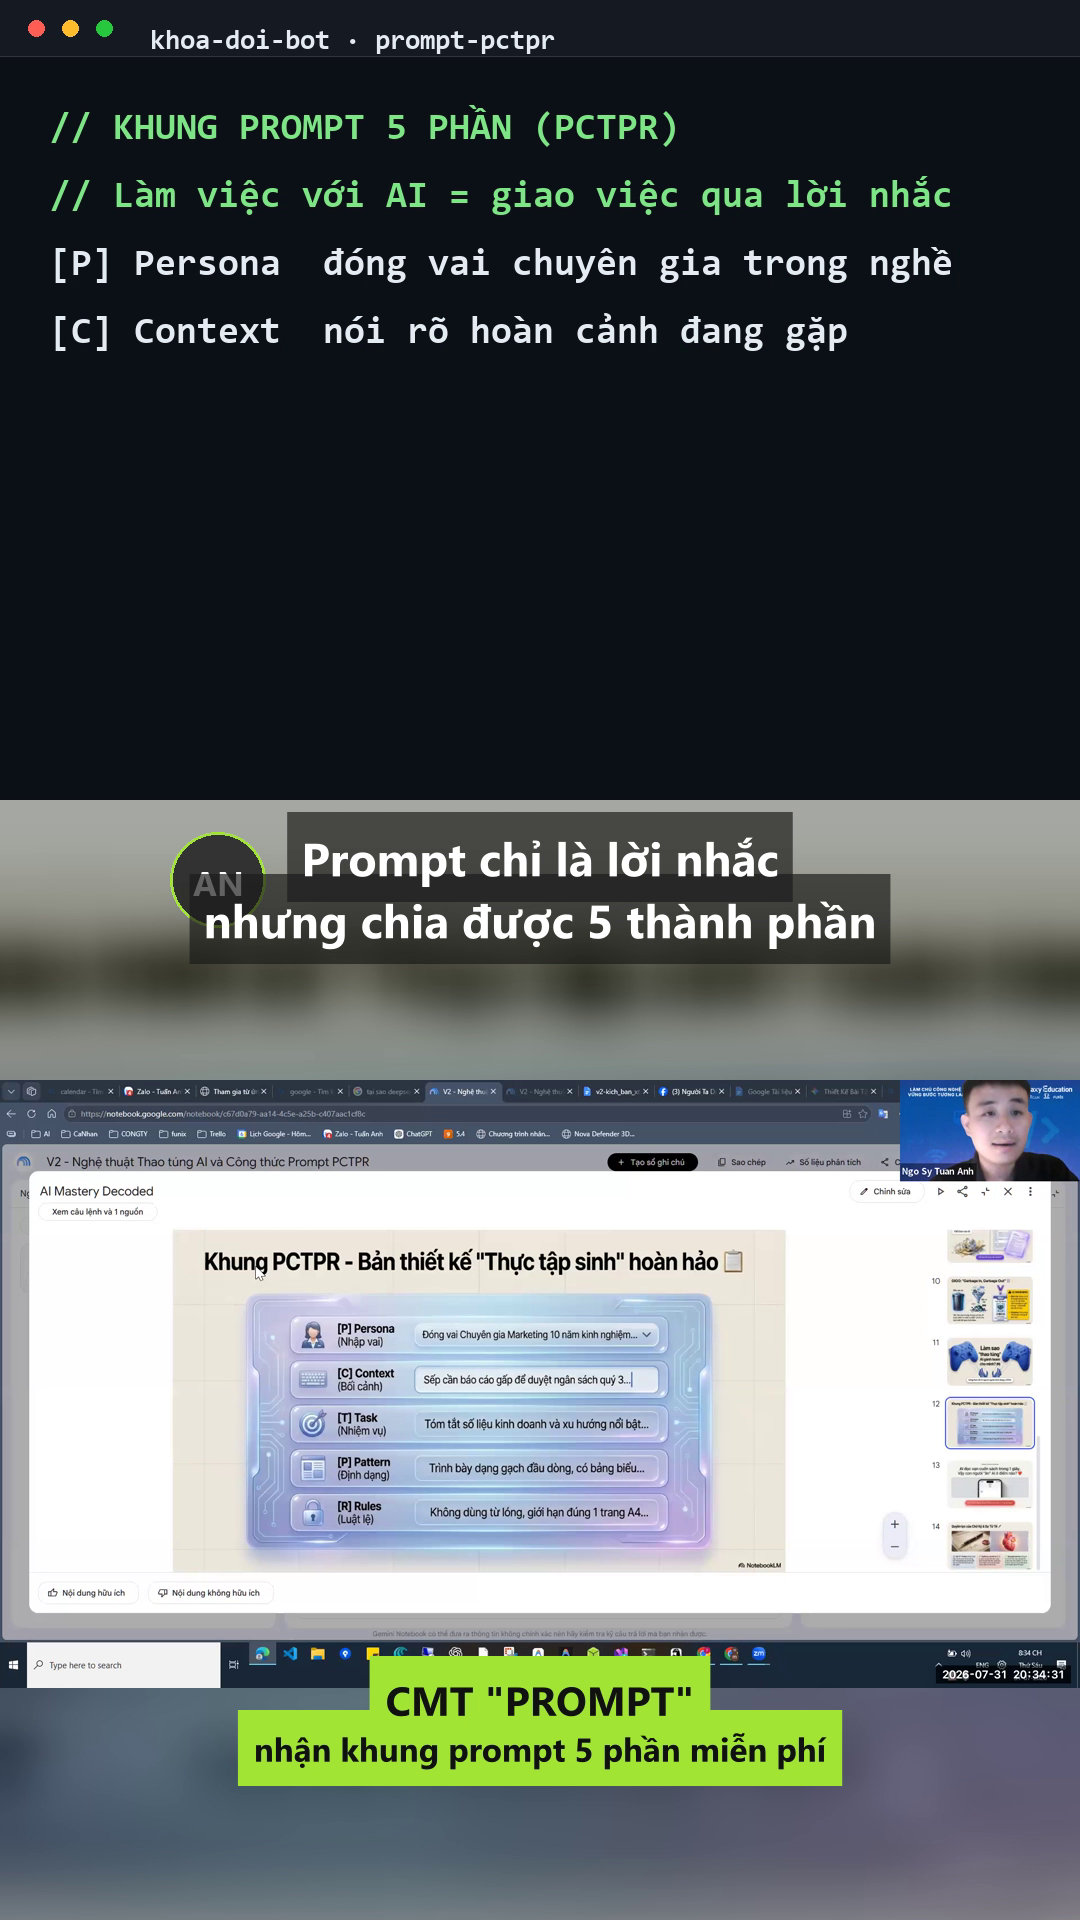
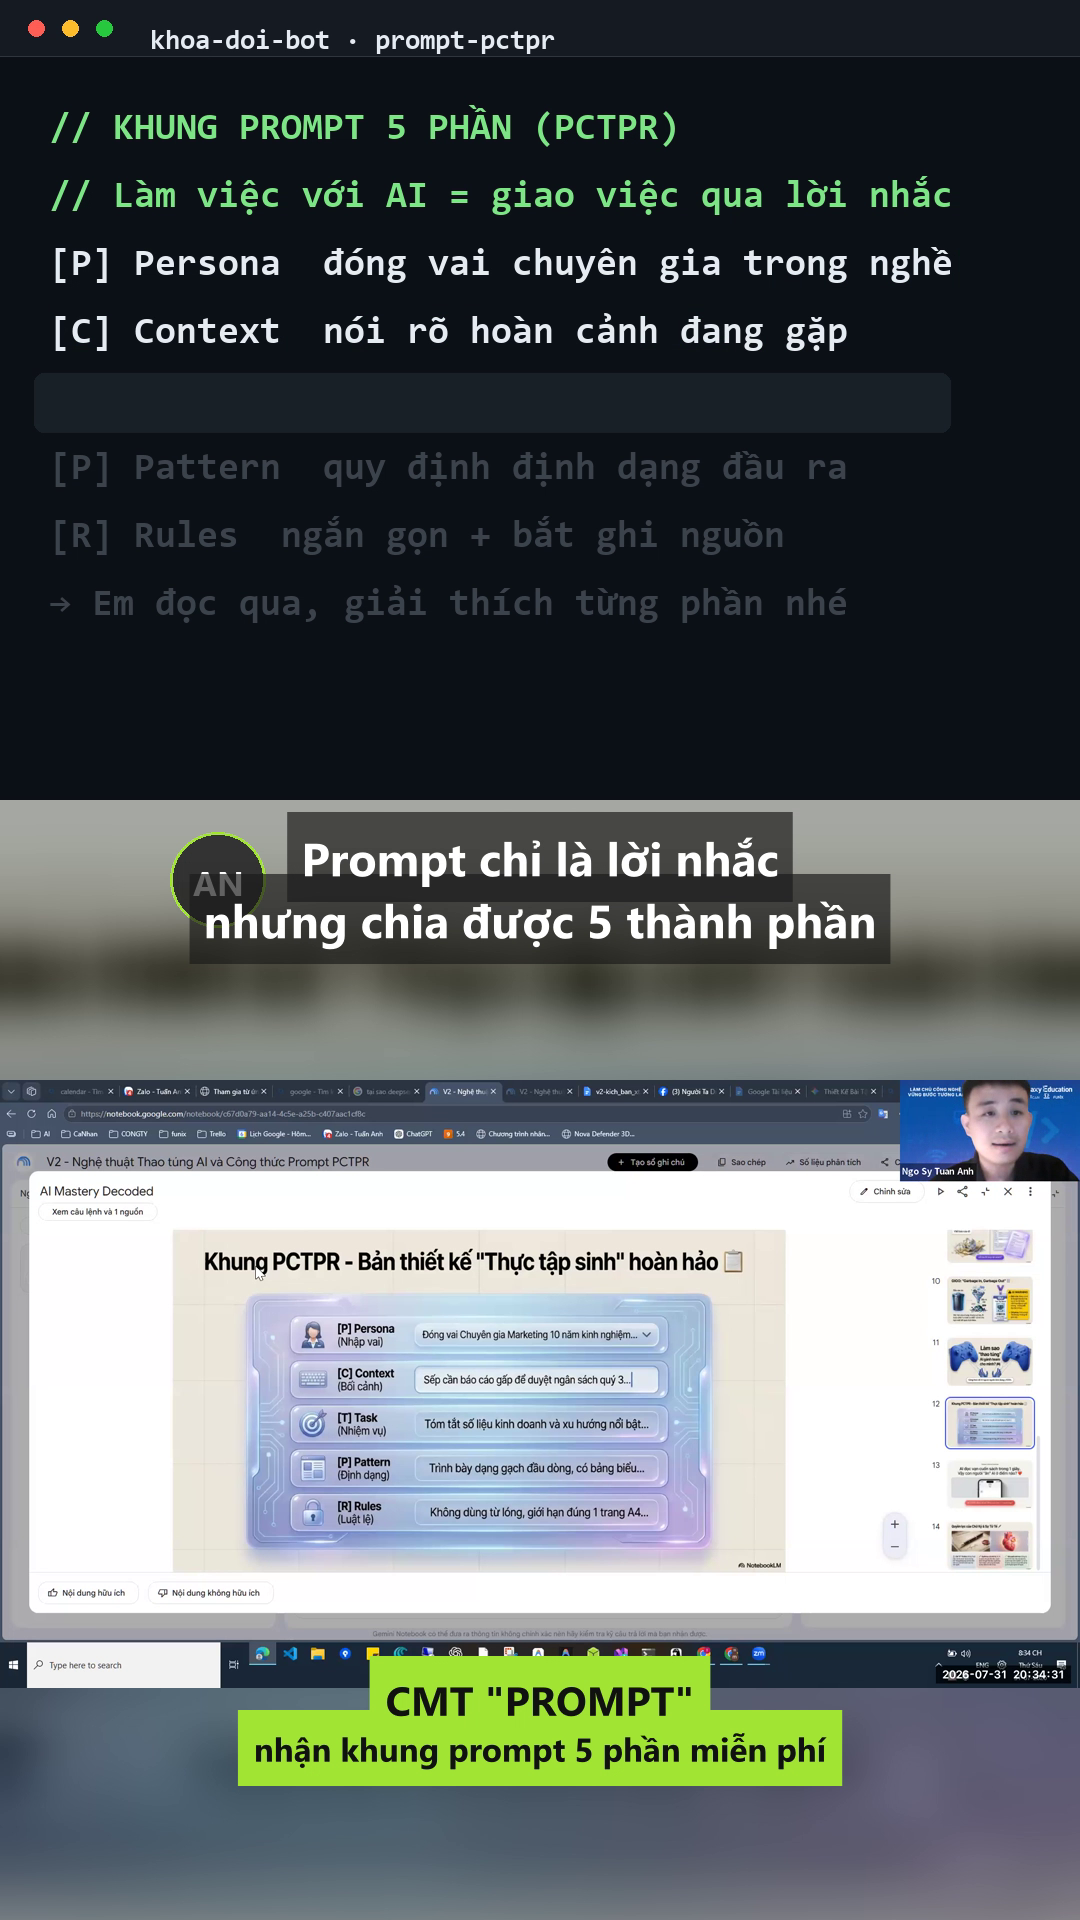
E2 ghost+highlight: diem 90 (best moi) — vung code day, 3 lop nhịp

diff --git a/render_code_variant.py b/render_code_variant.py
@@ -81,23 +81,29 @@ def render_code_frames(v: dict, out_dir: Path, dur: float, reuse: bool = True):
         d.text((150, TAB_H // 2), v.get("tab", "session"), font=tab_f, fill=TXT)
         d.line([0, TAB_H, W, TAB_H], fill=(48, 54, 61))
 
-        # các dòng code typing (tăng dần theo t0)
+        # các dòng code typing (tăng dần theo t0); dòng chưa tới giờ hiện ghost mờ
         cursor_pos = None
+        typing_y = None
         y = BODY_Y0
         for ln in lines:
             if t < ln["t0"]:
-                break  # dòng chưa tới giờ — bỏ qua phần còn lại
+                d.text((BODY_X, y), ln["full"], font=f, fill=(61, 68, 77))  # ghost
+                y += LINE_H
+                continue
             chars = int((t - ln["t0"]) * TYPE_SPEED)
             shown = ln["full"][:chars]
-            if ln["kind"] == "comment":
-                d.text((BODY_X, y), shown, font=f, fill=GREEN)
-            else:
-                d.text((BODY_X, y), shown, font=f, fill=TXT)
             x_end = BODY_X + d.textlength(shown, font=f)
             if chars < len(ln["full"]):
+                # highlight nền dòng đang gõ
+                d.rounded_rectangle([BODY_X - 16, y - 9, BODY_X + 900, y + 50], 10, fill=(26, 33, 41))
+                typing_y = y
+                color = GREEN if ln["kind"] == "comment" else TXT
+                d.text((BODY_X, y), shown, font=f, fill=color)
                 cursor_pos = (x_end + 4, y)
-                break  # đang gõ dòng này
-            cursor_pos = (x_end + 6, y)  # dòng xong — cursor chờ cuối dòng
+            else:
+                color = GREEN if ln["kind"] == "comment" else TXT
+                d.text((BODY_X, y), shown, font=f, fill=color)
+                cursor_pos = (x_end + 6, y)
             y += LINE_H
 
         # con trỏ nhấp nháy (mặc định tại chỗ sẽ gõ tiếp)

diff --git a/diem/diem_log.md b/diem/diem_log.md
@@ -5,7 +5,8 @@ Metric duy nhất: rubric.md (100 điểm). Best hiện tại ghi đầu bảng.
 | Vòng | Cải tiến | Điểm | Keep? | Best |
 |---|---|---|---|---|
 | E0 | Baseline (video S06 đã duyệt 01/11) | 86 | ✔ | 86 |
-| E1 | Badge "AN" tròn viền lime mép trái pill | **87** | ✔ best | **87** |
+| E1 | Badge "AN" tròn viền lime mép trái pill | 87 | ✔ | 87 |
+| E2 | Ghost lines + highlight dòng đang gõ | **90** | ✔ best | **90** |
 
 ## E0 — Baseline: 86 điểm (tag v0)
 
@@ -31,11 +32,17 @@ Chấm trên diem/E0_baseline/ (ffprobe: 1080x1920, 50.00s — chuẩn).
 - Còn lại giữ nguyên E0. Bằng chứng: diem/E1/CODES06_{d,g,c}.png.
 - Best → `output/best.mp4`.
 
+## E2 — Ghost lines + highlight: 90 điểm (tag v2, ffprobe 50.00s)
+
+- Mục 1 layout: 9 → 10 (ghost lấp vùng code trống, khuôn 8 dòng đầy).
+- Mục 8 giữ chân: 7 → 9 (ghost + highlight + typing 3 lớp nhịp).
+- Lỗi nhỏ ghi nhận: highlight rỗng 0.3s đầu mỗi dòng (chars=0) — chấp nhận.
+- Best → output/best.mp4.
+
 ## Backlog vòng kế (1 vòng = 1 cải tiến)
 
 - E1: badge "AN" tròn bên trái pill + nền pill đặc hơn (so mẫu fb2) — mục 2
-- E2: ghost lines (dòng mờ trước khi gõ) + highlight dòng đang gõ — mục 1, 8
-- E3: waveform audio thật (showwaves) trước CTA — mục 8 (như fb2)
+- E3: [ĐANG LÀM] waveform audio thật (showwaves) trước CTA — mục 8
 - E4: intro hook 1.2s đầu: chữ to fade-in — mục 8
 - E5: CTA nhấp nháy nhẹ \f + viền pill tương phản — mục 5, 8
 - E6: tint viền phân tách 3 tầng, xử dải blur bẩn — mục 7
